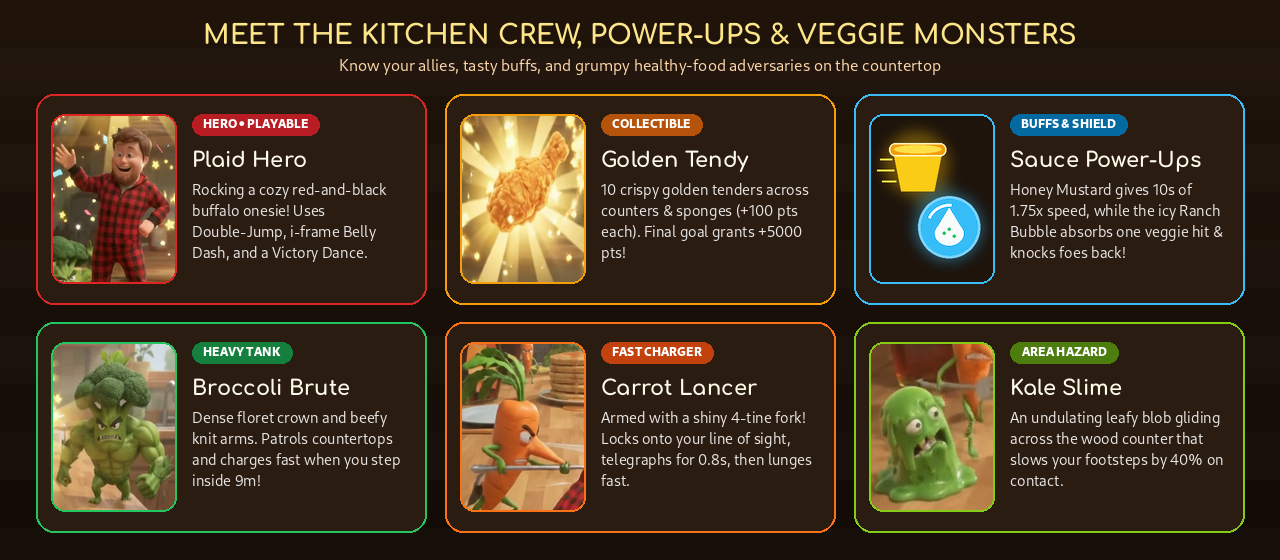
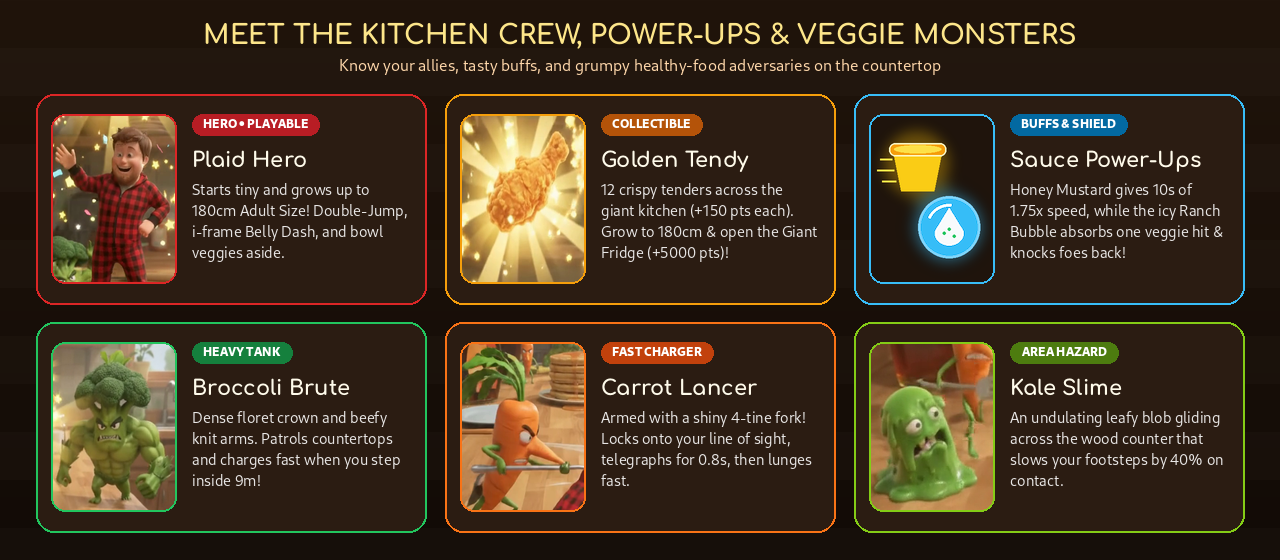
Update README and showcase graphics for Katamari growth & Giant Fridge goal

Changed region(s): [[0.4688, 0.3339, 0.6562, 0.4857], [0.1562, 0.3339, 0.3125, 0.4857]]

diff --git a/blender/build_readme_graphics.py b/blender/build_readme_graphics.py
@@ -283,8 +283,8 @@ def build_hero_banner(v_hero: Image.Image) -> None:
     draw.text((52, 168), "GIANT KITCHEN ADVENTURE", font=f_sub, fill=(251, 146, 60, 255))
 
     tagline = (
-        "Help the Plaid Hero dash, double-jump, and dance across a colossal "
-        "kitchen countertop to rescue all 10 Golden Tendies!"
+        "Start as a tiny toy on the countertop, eat all 12 Golden Tendies to grow to "
+        "180cm Adult Size, and open the Giant Refrigerator!"
     )
     ty = 212
     for line in wrap_lines(draw, tagline, f_body, 610):
@@ -295,7 +295,7 @@ def build_hero_banner(v_hero: Image.Image) -> None:
     pills = [
         ("Rust + Bevy 0.15", (194, 65, 12, 245)),
         ("Blender PBR 3D", (15, 118, 110, 245)),
-        ("125 BPM Pop OST", (190, 24, 93, 245)),
+        ("Eat-to-Grow", (190, 24, 93, 245)),
         ("Mobile Touch Ready", (67, 56, 202, 245)),
     ]
     px_cur = 52
@@ -529,7 +529,7 @@ def build_cast_and_powerups(
             "role": "HERO • PLAYABLE",
             "accent": (220, 38, 38, 255),
             "role_bg": (184, 29, 36, 255),
-            "desc": "Rocking a cozy red-and-black buffalo onesie! Uses Double-Jump, i-frame Belly Dash, and a Victory Dance.",
+            "desc": "Starts tiny and grows up to 180cm Adult Size! Double-Jump, i-frame Belly Dash, and bowl veggies aside.",
             "img": v_hero.crop((185, 435, 505, 835)),
         },
         {
@@ -537,7 +537,7 @@ def build_cast_and_powerups(
             "role": "COLLECTIBLE",
             "accent": (245, 158, 11, 255),
             "role_bg": (180, 83, 9, 255),
-            "desc": "10 crispy golden tenders across counters & sponges (+100 pts each). Final goal grants +5000 pts!",
+            "desc": "12 crispy tenders across the giant kitchen (+150 pts each). Grow to 180cm & open the Giant Fridge (+5000 pts)!",
             "img": v_tendy_slime.crop((240, 175, 500, 445)),
         },
         {

diff --git a/README.md b/README.md
@@ -20,17 +20,20 @@
 
 ## About the Game
 
-Shrink down to miniature size and sprint across a towering **Giant Kitchen** countertop as the **Plaid Hero**! Armed with a red-and-black buffalo plaid onesie, acrobatic **Double-Jumps**, and an invulnerable **Belly Dash**, your mission is to grab all **10 Golden Tendies** and reach the stacked **Pancake Tower** before hungry waves of healthy-food monsters catch up with you.
+Start shrunk down to miniature **17cm Tiny Toy** size (`0.55` scale) on a colossal **Giant Kitchen** countertop as the **Plaid Hero**! Armed with a red-and-black buffalo plaid onesie, acrobatic **Double-Jumps**, and an invulnerable **Belly Dash**, your mission is to eat all **12 Golden Tendies** across a multi-scale Katamari-style room—climbing from countertops and the giant toaster up to the shelf, across the cutting-board bridge to the center island, and down stepping stools, dining chair, and table to the **kitchen floor**.
+
+Each Golden Tendy physically grows your hero taller, faster, and stronger—scaling jump height, pickup reach, and camera pullback all the way up to **180cm Full Adult Size** (`6.0` scale), where you can bowl Veggie Monsters straight out of your path and pull open the towering **Giant Refrigerator** on the floor!
 
 <table>
   <tr>
     <td valign="top">
       <h3>Core Gameplay Loop</h3>
       <ul>
-        <li><strong>Collect All 10 Golden Tendies:</strong> Hop across giant kitchen sponges, toaster rims, and maple syrup lanes to snag floating crispy tenders (<code>+100 pts</code> each, plus a <code>+5,000 pts</code> finisher bonus at the Pancake Stack!).</li>
-        <li><strong>Survive 3 Escalating Waves:</strong> Reinforcements arrive every 16 seconds as Broccoli Brutes, fork-wielding Carrot Lancers, and sludgy Kale Slimes patrol the countertop.</li>
-        <li><strong>Articulated 3D Animation:</strong> Stride, sprint, jump, belly-dash, and break into a victory dance with custom glTF joint-pivot limb animations—no static gliding!</li>
-        <li><strong>Instant Browser Play:</strong> Compiles to WebAssembly + WebGL2 with automatic multi-touch controls on mobile devices.</li>
+        <li><strong>Eat-to-Grow Across 12 Golden Tendies:</strong> Hunt down floating crispy tenders across the prep countertop, toaster &amp; upper shelf, island bridge, stools, dining table &amp; chair, and floor (<code>+150 pts</code> each, <code>+1,000 pts</code> bonus when reaching <code>12/12</code>).</li>
+        <li><strong>Scale Up &amp; Turn the Tables:</strong> Once your hero grows past <code>2.2</code> scale, you shrug off Kale Slime slowdowns and bowl over Broccoli Brutes &amp; Carrot Lancers on contact (<code>+250 pts</code>)!</li>
+        <li><strong>Open the Giant Refrigerator:</strong> Reach <strong>180cm Adult Size</strong> (<code>12/12</code> Tendies), drop down to the kitchen floor, and approach the Giant Fridge handle to swing its stocked door wide open (<code>+5,000 pts</code> Stage Clear!).</li>
+        <li><strong>Survive 3 Escalating Waves:</strong> Reinforcements arrive every 16 seconds across the countertop, center island, and kitchen floor.</li>
+        <li><strong>Instant Browser &amp; Mobile Play:</strong> Compiles to Rust + WebAssembly + WebGL2 with responsive <code>100dvh</code> portrait/landscape HUD and multi-touch controls tested on Pixel 11 viewports.</li>
       </ul>
     </td>
     <td width="250" align="center" valign="middle">
@@ -61,8 +64,9 @@ Play seamlessly on a widescreen desktop browser or straight from your phone's to
 
 | Entity | Role | Mechanics & Stats |
 | :--- | :--- | :--- |
-| **Plaid Hero** | Playable Hero | Starts with **5 Hearts**. Features camera-relative movement, **Double-Jump**, a regenerating **Belly Dash** (16.5 speed + 0.35s invulnerability), and a celebratory **Victory Dance**. |
-| **Golden Tendy** | Primary Collectible | **10 total** across the kitchen arena (`+100 pts` each). Reaching the 10th final tendy at the Pancake Stack triggers **Stage Clear** (`+5,000 pts`). |
+| **Plaid Hero** | Playable Hero | Starts with **5 Hearts** at **17cm Tiny Toy** (`0.55` scale) and grows to **180cm Adult** (`6.0` scale). Features size-scaled speed, **Double-Jump**, a regenerating **Belly Dash**, and a celebratory **Victory Dance**. |
+| **Golden Tendy** | Growth Collectible | **12 total** spread across countertop, toaster, upper shelf, island, stepping stools, dining chair/table, and floor (`+150 pts` each). Reaching `12/12` unlocks the **Giant Refrigerator** door goal (`+5,000 pts`). |
+| **Giant Refrigerator** | Final Goal | Towering floor-level fridge at `(13.5, -6.0, -18.5)` with hinged stocked door. Only **Full Adult Size** (`12/12` Tendies) is tall enough to swing it open and trigger **Stage Clear**! |
 | **Honey Mustard Cup** | Speed Power-Up | Grants **10 seconds** of **1.75× movement speed** for zooming past hazards and grabbing out-of-reach tendies. |
 | **Ranch Shield** | Defense Power-Up | Surrounds you in a creamy **1-hit protective bubble** that absorbs incoming veggie damage and knocks attackers back. |
 | **Broccoli Brute** | Heavy Tank | Patrols key routes at 2.2 speed and charges aggressively (3.8 speed) whenever you enter its **9.0m** range. |
@@ -119,7 +123,7 @@ trunk build --release --public-url ./ --dist ../dist/web
 ### Regenerate 3D Models, Audio & README Graphics (Optional)
 
 ```bash
-# Regenerate all 13 articulated PBR .glb models in assets/models/
+# Regenerate all 14 articulated PBR .glb models in assets/models/
 blender --background --python blender/build_tendy_quest_assets.py
 
 # Regenerate background music & 11 stereo SFX in assets/audio/
